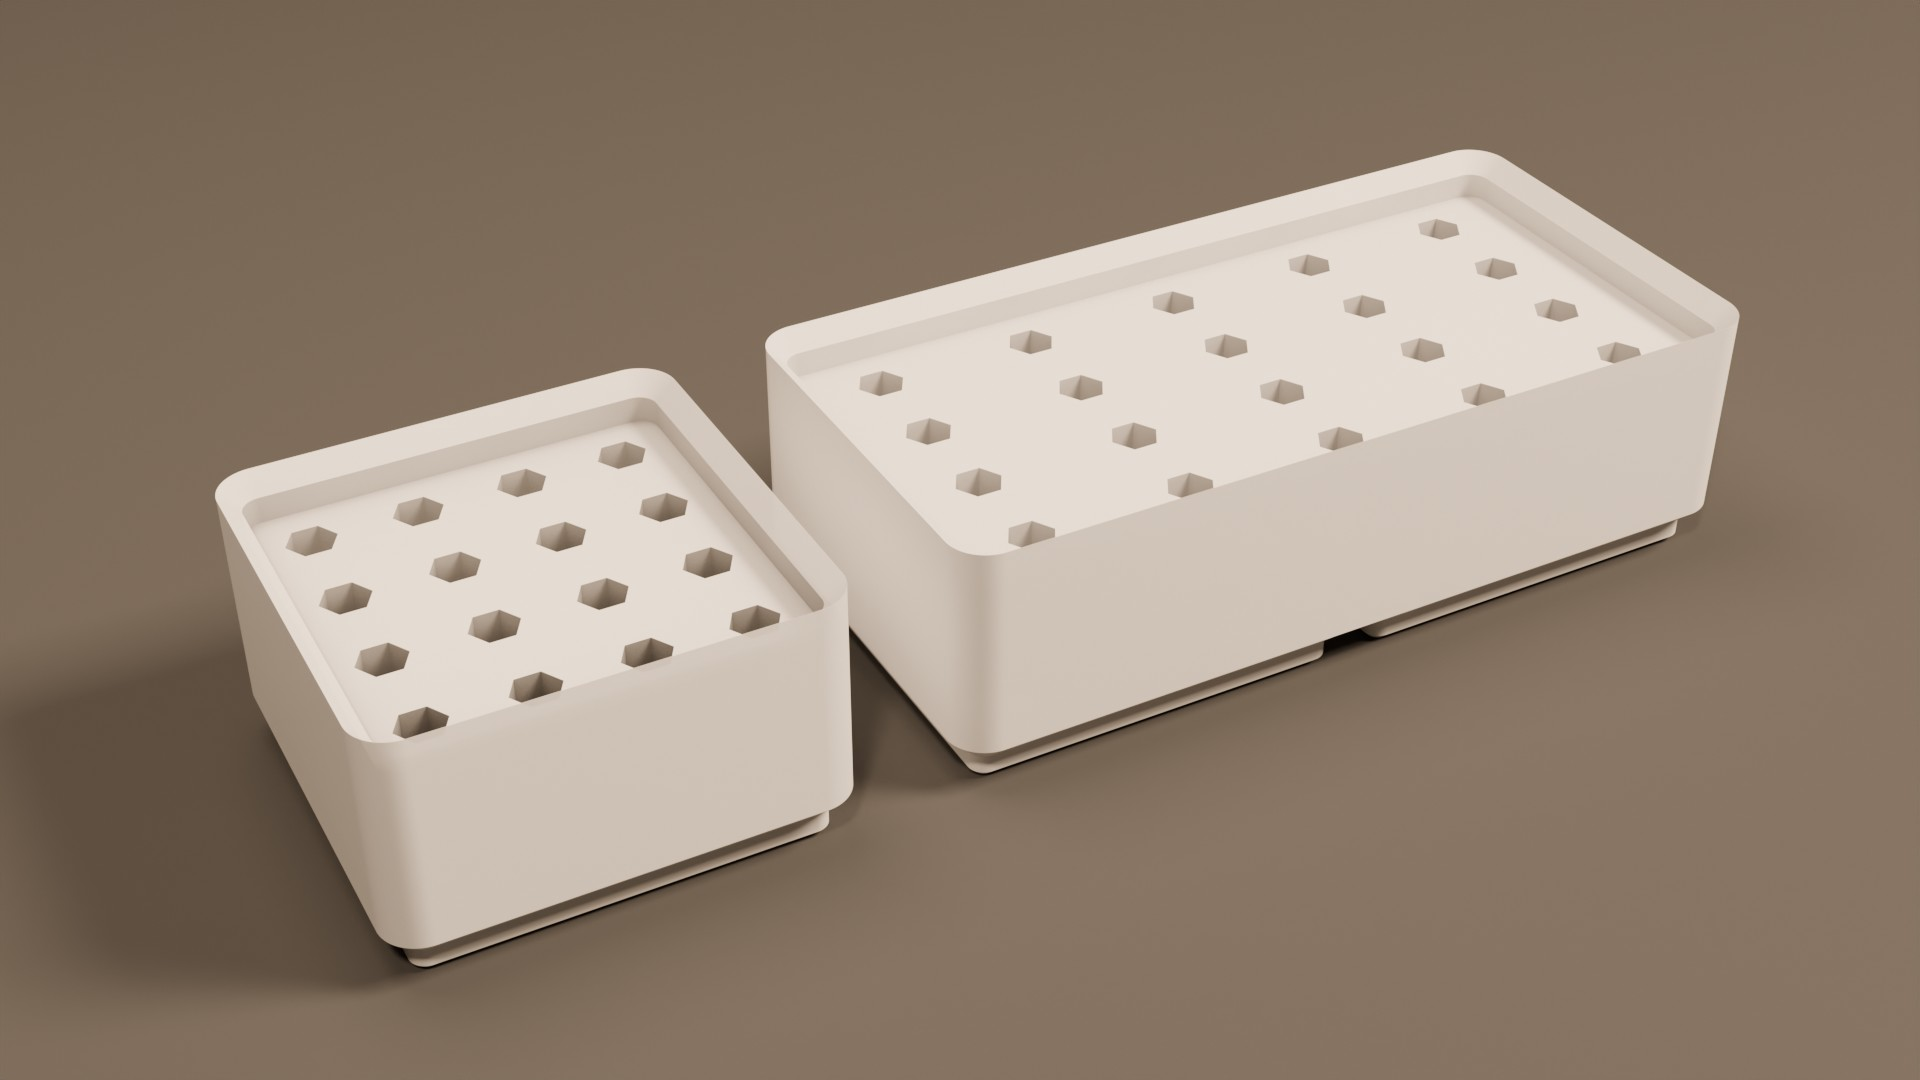
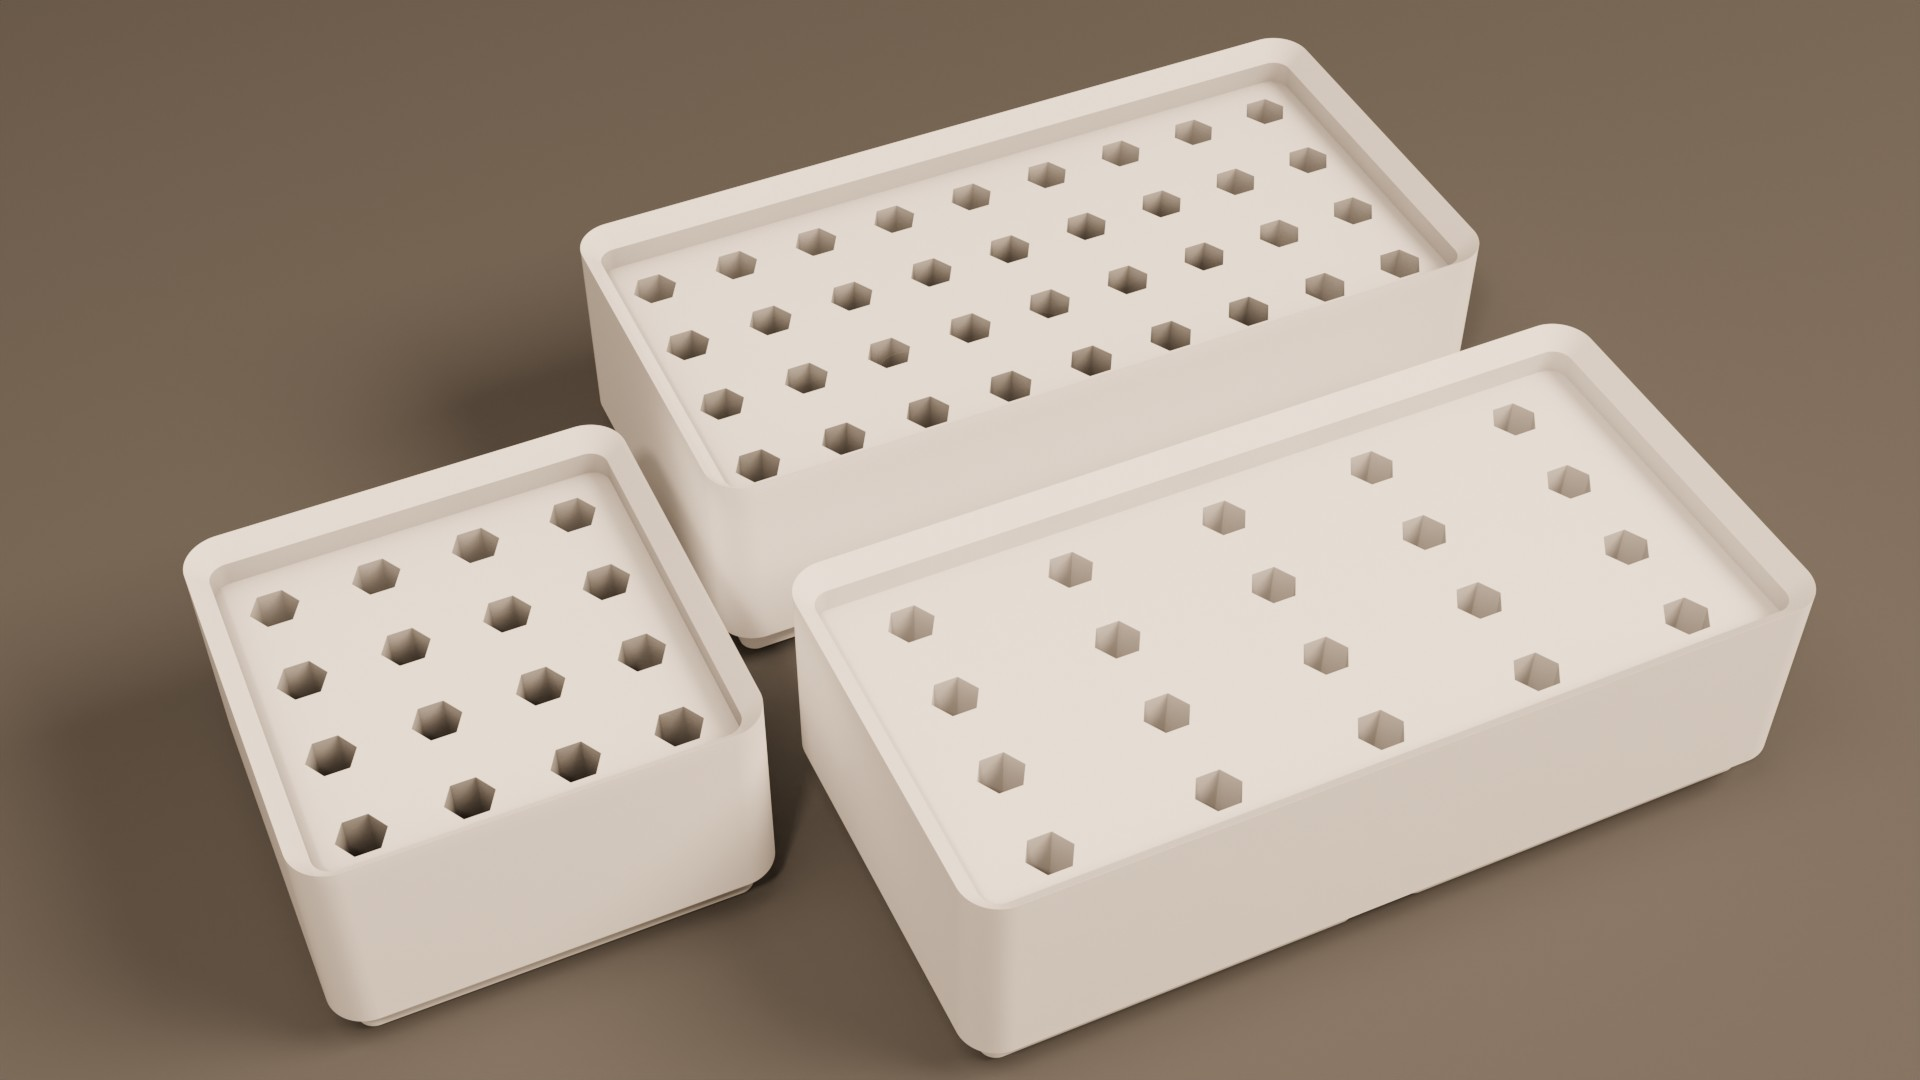
finalize the help-texts and images

diff --git a/help_files/holey_numholes_help.html b/help_files/holey_numholes_help.html
@@ -1,11 +1,15 @@
-<p>The number of holes in Width and Length directions specify how many holes the grid consists of. Combined with the keepout diameter this determines how big the bin will be. The generator will create a bin of the minimum size required to fit the hole-grid</p>
+<p>The number of holes in the grid can be specified in one of two ways:</p>
 
-<p>Here you can see the result of increasing the number of holes in one direction by 1, while keeping all other parameters unchanged:</p>
+<ol>
+  <li>By setting the number of holes in the Width and Length directions</li>
+  <li>By setting the bin-size in gridfinity units.</li>
+</ol>
+
+<p>In both cases the other quantity will be recalculated automatically. So as soon as you set a number of holes (either in Width or Length), the bin-size will be set to
+the minimum size required to fit that number. As soon as you set a bin-size (either in Width or Length), the number of holes will be set to the maximum that fit in that
+size bin. Combined with the keepout diameter this determines how big the bin will be.</p>
+
+<p>Below you can see the result of increasing either the number of holes by 1 (bottom right), or setting the bin-Width to 2 (top right), while keeping all other
+parameters unchanged from the original 4x4-hole bin (left):</p>
 
 <p><img src="/static/holeybin_numholes.jpg" class="img-fluid rounded mx-auto d-block" /></p>
-
-<div class="alert alert-info">
-    <p class="mb-0">
-      In a future version you will optionally be able to specify the desired size of the bin and have the generator figure out how many holes fit in that size instead of the other way around.
-    </p>
-</div>

diff --git a/help_files/holey_keepout_help.html b/help_files/holey_keepout_help.html
@@ -4,8 +4,3 @@
 
 <img src="/static/holeybin_keepoutdiameter.jpg" class="img-fluid rounded mx-auto d-block" />
 
-<div class="alert alert-info">
-    <p class="mb-0">
-      In a future version you will optionally be able to specify the desired size of the bin and have the generator figure out how many holes fit in that size instead of the other way around.
-    </p>
-</div>

diff --git a/generators/holeybin/holeybin_form.py b/generators/holeybin/holeybin_form.py
@@ -28,12 +28,12 @@ class Form(FlaskForm):
 
     def __init__(self, *args, **kwargs):
         super().__init__(*args, **kwargs)
-        self.numHolesX.description = help.get_holey_numholes_help()
-        self.numHolesY.description = help.get_holey_numholes_help()
-        self.holeDepth.description = help.get_holey_numholes_help()
+        self.numHolesX.description = help.get_holey_gridspec_help()
+        self.numHolesY.description = help.get_holey_gridspec_help()
+        self.holeDepth.description = help.get_holey_gridspec_help()
         self.holeShape.description = help.get_holey_shape_help()
-        self.sizeUnitsX.description = help.get_size_help()
-        self.sizeUnitsY.description = help.get_size_help()
+        self.sizeUnitsX.description = help.get_holey_gridspec_help()
+        self.sizeUnitsY.description = help.get_holey_gridspec_help()
         self.holeSize.description = help.get_holey_size_help()
         self.keepoutDiameter.description = help.get_holey_keepout_help()
         self.addStackingLip.description = help.get_stackinglip_help()

diff --git a/help_provider.py b/help_provider.py
@@ -40,6 +40,6 @@ def get_holey_keepout_help():
     with open(os.path.dirname(__file__) + '/help_files/holey_keepout_help.html', 'r') as reader:
         return reader.read()
     
-def get_holey_numholes_help():
+def get_holey_gridspec_help():
     with open(os.path.dirname(__file__) + '/help_files/holey_numholes_help.html', 'r') as reader:
         return reader.read()
